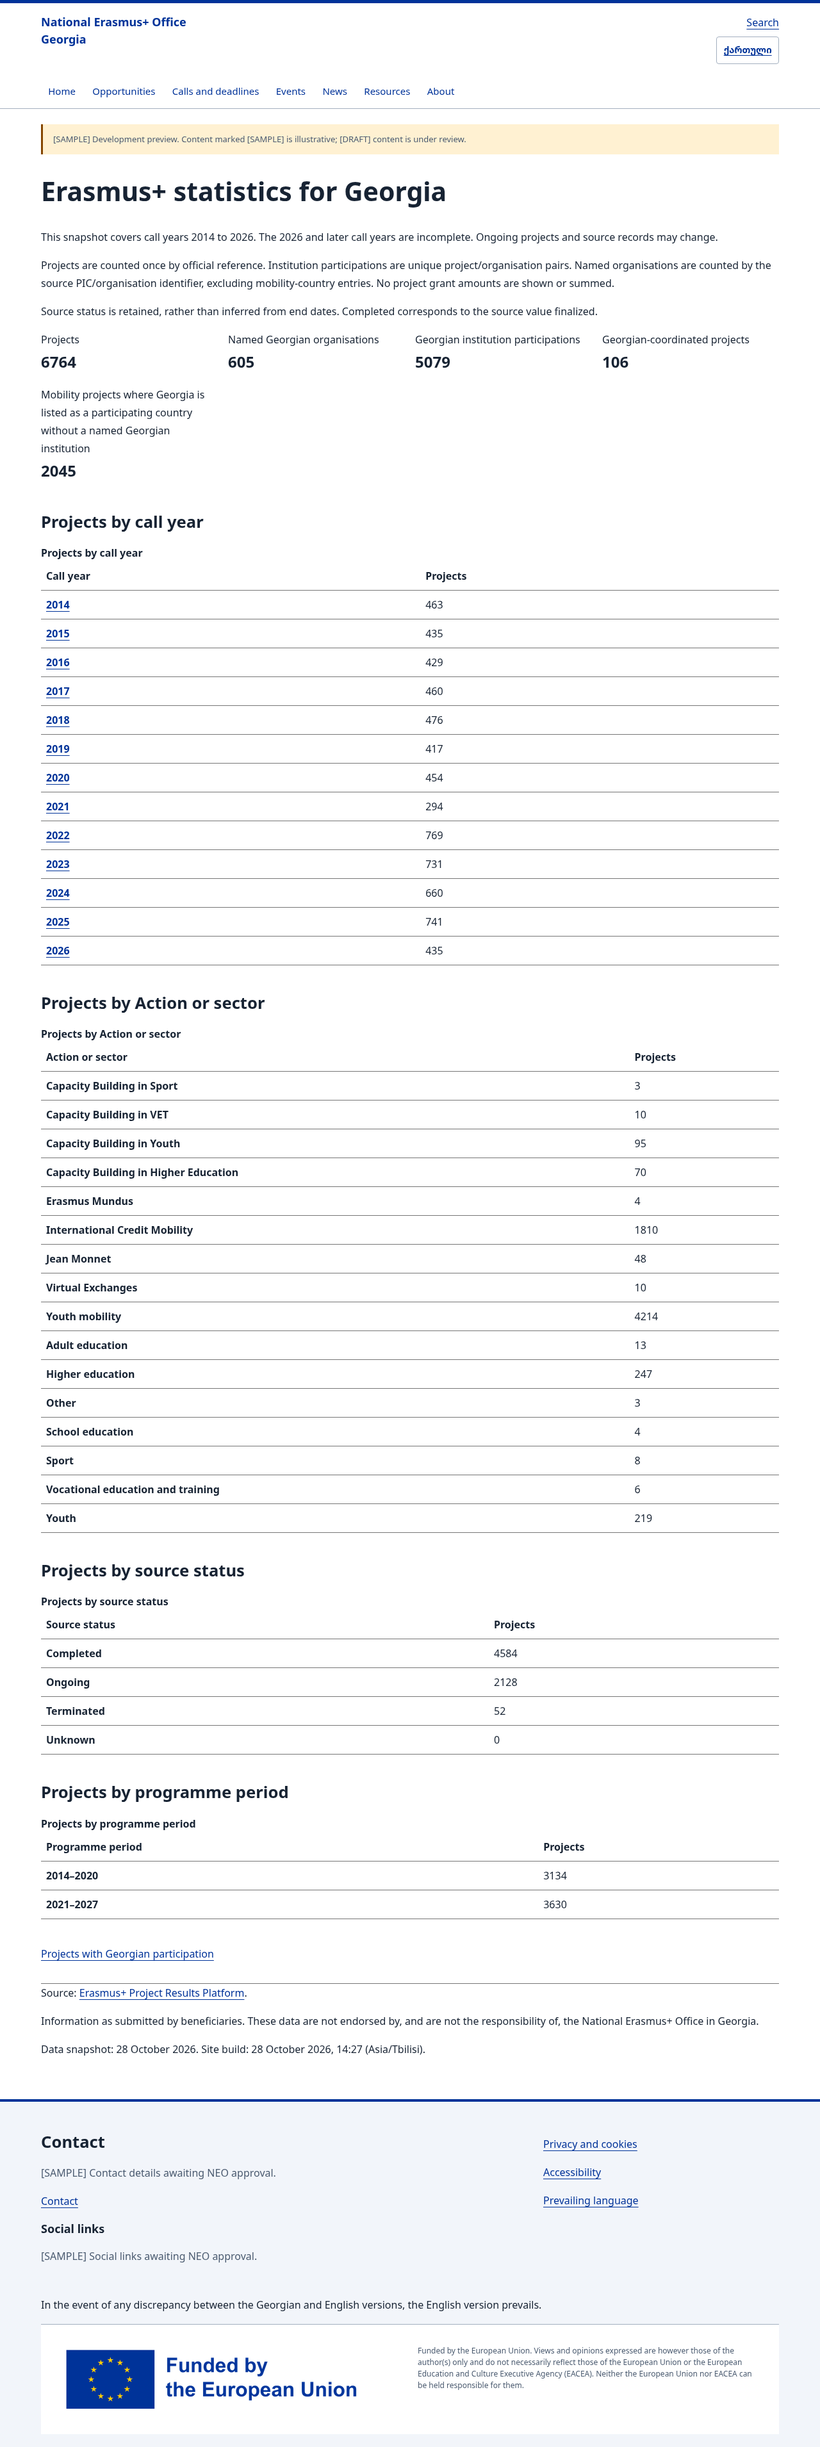
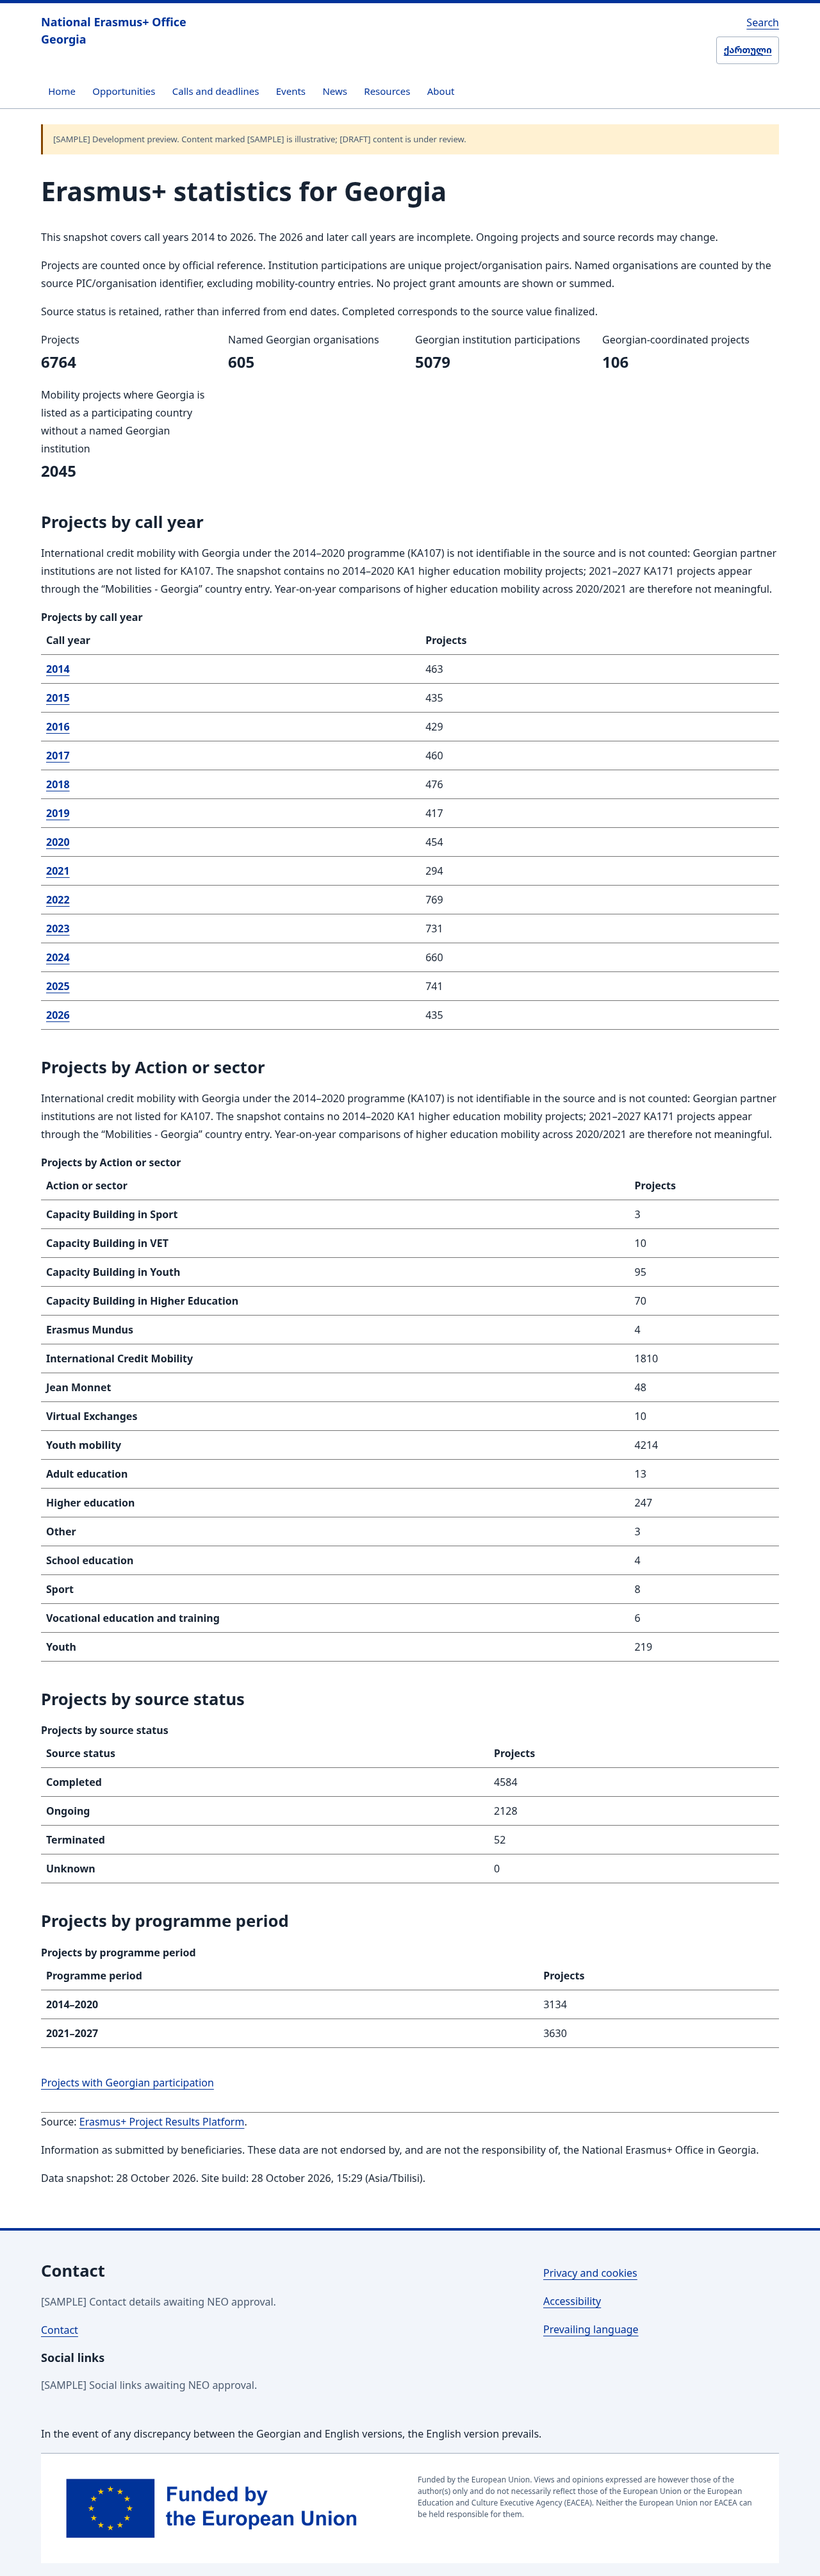
Record clean validation of PR 19 review fixes

diff --git a/docs/review/session-19/README.md b/docs/review/session-19/README.md
@@ -2,9 +2,11 @@
 
 Source branch: data/projects-snapshot-2026-10-28, commit 3cc2d40 (main 14902c4 plus the supplied data commit). No live project fetch was run. [Full Action mapping](../../PROJECT-ACTION-MAP.md) lists all 39 source labels/counts; [report.json](report.json) contains measurements and statistical breakdowns.
 
-## Remaining source-reproduction gap
+## Review fixes, 28 October 2026
 
-The supplied README/snapshot metadata omit the exact POST body, Origin, pagination fields and raw response paths. The manual refresh command is implemented with a confirmed-request configuration guard, but no production request template is guessed or supplied. It refuses missing/unconfirmed/synthetic production requests, never runs in CI and has seven offline pagination/guard/difference tests. **Live reproduction remains pending a captured request/response contract and validation.** CONTENT.md documents the command and candidate review process. This gap does not affect the supplied snapshot's validated public tables/statistics.
+Luka supplied the verified POST body, Origin and total/projectDocuments response fields on 2026-10-28. The manual refresh now uses that request directly, covers 2014 through the current Tbilisi year, advances from by 100 with 0.5-second spacing, and fails the whole run if any year's retrieved count differs from its total. Ten offline tests cover the exact body, headers, pagination, empty/short pages, failure guards and differences. No live fetch was run in this review, as instructed. The earlier missing-request gap is resolved; live service behaviour was not rechecked here. See migration/source/README.md and CONTENT.md for the request and candidate review process.
+
+Visible bilingual notes beside the year and Action comparisons on both overview pages explain the source's missing KA107/2014–2020 higher education mobility cohort and the invalidity of comparisons across 2020/2021. The source totals remain unchanged.
 
 ## Public totals
 
@@ -23,7 +25,7 @@ The supplied README/snapshot metadata omit the exact POST body, Origin, paginati
 
 Raw source regression checks retain 606 identifiers and 7,124 pairs, including the synthetic Georgia mobility-country entry. All 235 generic higher-education mobility records are KA131 and remain sector-only; all 2,045 mobility-country projects have no named Georgian institution. Project totals include them. The 2026/later call years are incomplete and source/ongoing records may change. Source status is not inferred from dates. No funding amount is shown or summed.
 
-## Output and performance
+## Initial Session 19 output and performance
 
 | Root build measurement | Before | After |
 | --- | ---: | ---: |
@@ -36,10 +38,12 @@ Final project-prefix output: 111 HTML files, 11,924,961 bytes, Pagefind 1,325,41
 
 The largest year page is Georgian 2022 at 579,207 bytes, below the 1,000,000-byte split threshold. Source rows remain complete in both languages. Including year tables in Pagefind measured 3,235,348 bytes, so exclude them and index the overview/statistics only. Year pages remain linked, in the sitemap and complete without JavaScript. Native fragment/CSS group selection supports Action-specific links and an All projects reset; older CSS engines retain full groups and anchor navigation.
 
+After the review fixes, root output is 11,866,326 bytes and Pagefind 1,326,497 bytes; project-prefix output is 11,934,856 bytes and Pagefind 1,327,659 bytes. Both layouts still have 111 HTML files. These post-review values are also recorded separately in report.json.
+
 ## Validation
 
-Root and project-prefix suites each pass all 132 tests. They include source facts/per-year totals, required-field/duplicate/status/GE/card/date failures, strict public projection, exact mapping coverage, institution/country-mobility counting, original titles, static rows/official links, attribution, homepage figures, page size limits and existing CMS/image/redirect/hosting/search contracts. Refresh logic uses small synthetic fixtures with live fetch forbidden. Axe scans cover 105 pages per layout with zero violations. The full project-prefix browser command passes. The root scan completed before a new filter assertion exposed a render-timing race; after waiting for rendered filter state, the project checks and remaining search stage were rerun successfully. Focused filter/reset checks pass in both layouts. Other browser checks cover 320 px overflow, keyboard/language navigation, no-JavaScript menus/controls, Publications, images and calendar downloads. See report.json for the validation method.
+Root and project-prefix suites each pass all 136 tests. They include source facts/per-year totals, required-field/duplicate/status/GE/card/date failures, strict public projection, exact mapping coverage, institution/country-mobility counting, original titles, static rows/official links, attribution, homepage figures, page size limits and existing CMS/image/redirect/hosting/search contracts. Refresh logic uses small synthetic fixtures with live fetch forbidden. Both complete browser commands pass all 105 pages per layout with zero axe violations. This supersedes the initial root filter timing failure and focused rerun. Checks include 320 px overflow, skip links/language switches, no-JavaScript menus/controls, Publications, images, calendar/ICS, project Action/year/filter/reset/keyboard navigation and search. Separate no-JavaScript checks confirm that both coverage notes remain visible at 320 px on each overview page in both languages/layouts, including Action-filtered indexes. See report.json for the validation method.
 
 The preview notice now distinguishes illustrative [SAMPLE] items and [DRAFT] content, rather than incorrectly describing the new factual catalogue/figures as illustrative. All nine Action records/shared eligibility, dependencies, EU artwork/disclaimer and AGENTS/CLAUDE guidance are unchanged. The launch flag remains false and hosted/manual launch tasks remain open.
 
-Representative captures: statistics in both languages at 320/1280 px, and project table rows at 1280 px. Source titles/names stay unchanged; Georgian interface/readability still needs the existing manual launch review.
+Statistics captures in both languages at 320/1280 px were refreshed after the review coverage note. Project table row captures at 1280 px remain from the initial Session 19 validation; those rows are unchanged. Source titles/names stay unchanged; Georgian interface/readability still needs the existing manual launch review.

diff --git a/docs/HANDOVER.md b/docs/HANDOVER.md
@@ -97,11 +97,11 @@ Three separate review commits cover the UID correction, browser-verification rec
 
 ## Session 19 validation and review fixes
 
-Clean root and project-prefix builds pass. Both full suites pass all 132 tests, including source/per-year facts, the strict public projection, complete exact-label mapping, institution-versus-mobility-country counts, complete static rows/original titles, page-size limits, attribution, homepage figures and seven offline manual-refresh checks. CMS/image/redirect isolated sites use small synthetic project snapshots.
+Clean root and project-prefix builds pass. After the PR #19 review fixes, both full suites pass all 136 tests, including source/per-year facts, the strict public projection, complete exact-label mapping, institution-versus-mobility-country counts, complete static rows/original titles, page-size limits, attribution, homepage figures, the bilingual mobility coverage notes and ten offline manual-refresh checks. CMS/image/redirect isolated sites use small synthetic project snapshots.
 
-Axe scans cover 105 non-redirect pages per layout, both languages, with zero violations. The project-prefix full browser command passes. In the root run, the complete scan preceded a render-state timing assertion in the new CSS filter check; waiting for rendered state fixes it, and both-language project/filter/reset/keyboard checks plus the remaining search stage pass on focused rerun. Full/targeted browser checks also cover 320 px overflow, keyboard/language navigation, no-JavaScript menus/controls, Publications, images and calendar downloads. Native Action/sector fragments filter groups with an All projects reset; older CSS engines retain the complete anchor-linked list.
+After the review fixes, both complete browser commands pass all 105 non-redirect pages per layout, both languages, with zero axe violations. This supersedes the initial root run's filter timing failure and focused rerun. Checks cover 320 px overflow, skip links/language switches, no-JavaScript menus/controls, Publications, images, calendar/ICS, project Action/year/filter/reset/keyboard navigation and search. Separate no-JavaScript checks confirm that both coverage notes remain visible at 320 px on both overview pages in each language/layout, including Action-filtered indexes. Four statistics captures were refreshed at 320/1280 px. Native Action/sector fragments retain an All projects reset; older CSS engines retain the complete anchor-linked list.
 
-There are 111 HTML files per layout (30 added), not thousands of project detail pages. Root output grows from 2,900,139 to 11,856,455 bytes; Pagefind from 1,315,137 to 1,324,245 bytes after excluding year tables. The largest year page is 579,207 bytes. Root single-run build time is 6.361 s before and 13.027 s after; final runs overlapped other validation and are not controlled benchmarks. Detailed counts, prefix sizes, mapping and representative captures are in review/session-19.
+Initial Session 19 measurements: 111 HTML files per layout (30 added), not thousands of project detail pages. Root output grows from 2,900,139 to 11,856,455 bytes; Pagefind from 1,315,137 to 1,324,245 bytes after excluding year tables. The largest year page is 579,207 bytes. Root single-run build time is 6.361 s before and 13.027 s after; final runs overlapped other validation and are not controlled benchmarks. Detailed counts, prefix sizes, mapping and representative captures are in review/session-19. After the coverage-note review fixes, output is 11,866,326 bytes at root and 11,934,856 bytes with the project prefix; Pagefind is 1,326,497 and 1,327,659 bytes respectively, with 111 HTML files in each layout.
 
 Luka supplied the verified refresh request on 2026-10-28. The command now uses it directly, reads total/projectDocuments, pages with from offsets 0/100/200 at size 100 with 0.5-second spacing, and covers 2014 through the current Tbilisi year. It fails the whole run on any per-year count mismatch. No request-template file is required; the previous missing-capture gap is resolved. No live fetch was run in this review, as instructed. The command still writes ignored raw/candidate/report files and never replaces the approved source automatically. See migration/source/README.md and CONTENT.md.
 

diff --git a/docs/CHANGELOG.md b/docs/CHANGELOG.md
@@ -312,3 +312,11 @@ Newest at the top. One entry per working session: date, who (agent or person), w
 - Replace the generic request-template interface with Luka's exact verified POST/Origin/body and total/projectDocuments envelope. Use string call years, from offsets 0/100/200, size 100, 500 ms spacing and years 2014 through the current Tbilisi year. Stop at total/empty and fail the entire run on any per-year count mismatch.
 - Keep ignored raw candidates/reports, schema/duplicate guards, manual-only CI refusal and source protection. Identify the full organisation array by its record schema and fail on ambiguous structures. Remove the obsolete synthetic request-template file.
 - Ten synthetic tests cover exact request/headers, dynamic years, pagination/spacing, short/empty pages, per-year mismatch and existing error/slimming/difference cases. No live request was run, per Luka's instruction. Update source README, CONTENT, SITE-PLAN and HANDOVER; the missing request specification is resolved.
+
+
+## 2026-10-28: PR #19 review, item 3, clean validation and handover
+
+- Re-run clean root and isolated project-prefix production builds. All 136 tests pass in each layout, including the bilingual coverage-note placement checks and ten offline refresh tests. No live project fetch is run.
+- Both complete browser commands pass all 105 non-redirect pages per layout with zero axe violations, including keyboard/language/no-JavaScript controls, calendar/ICS, projects and search. This supersedes the initial root timing failure and focused rerun.
+- Refresh the four statistics screenshots at 320/1280 px in both languages. Check that coverage notes remain visible without JavaScript in both layouts, including Action-filtered indexes, with no 320 px page overflow.
+- Update the review report and handover to resolve the previous missing-request gap, retain initial performance observations separately and record post-review output sizes. Keep the same branch and PR, with one commit per review item and no merge. All nine Actions remain unchanged and [DRAFT]; siteLaunched remains false.
